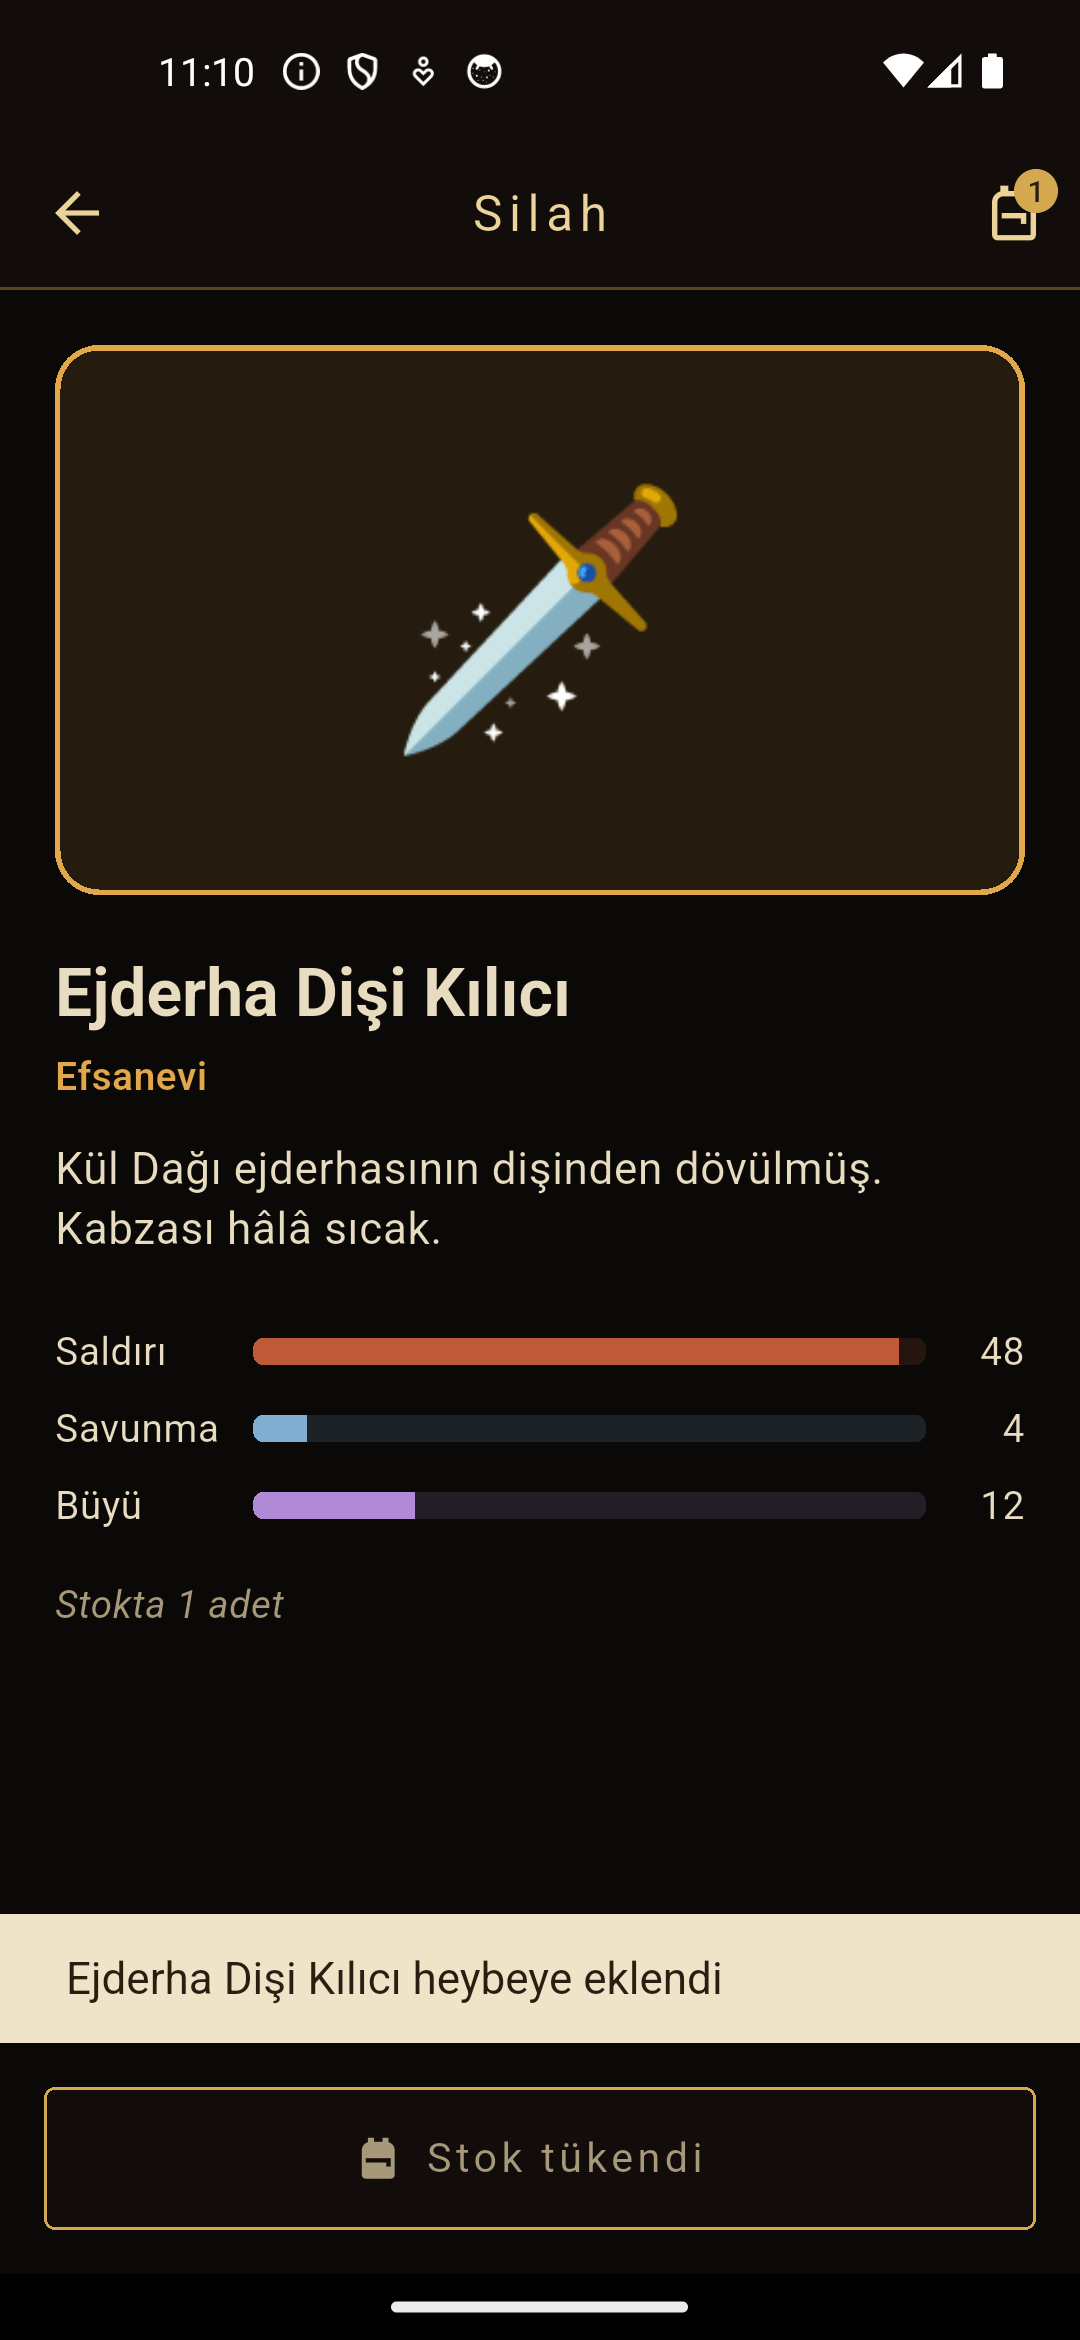
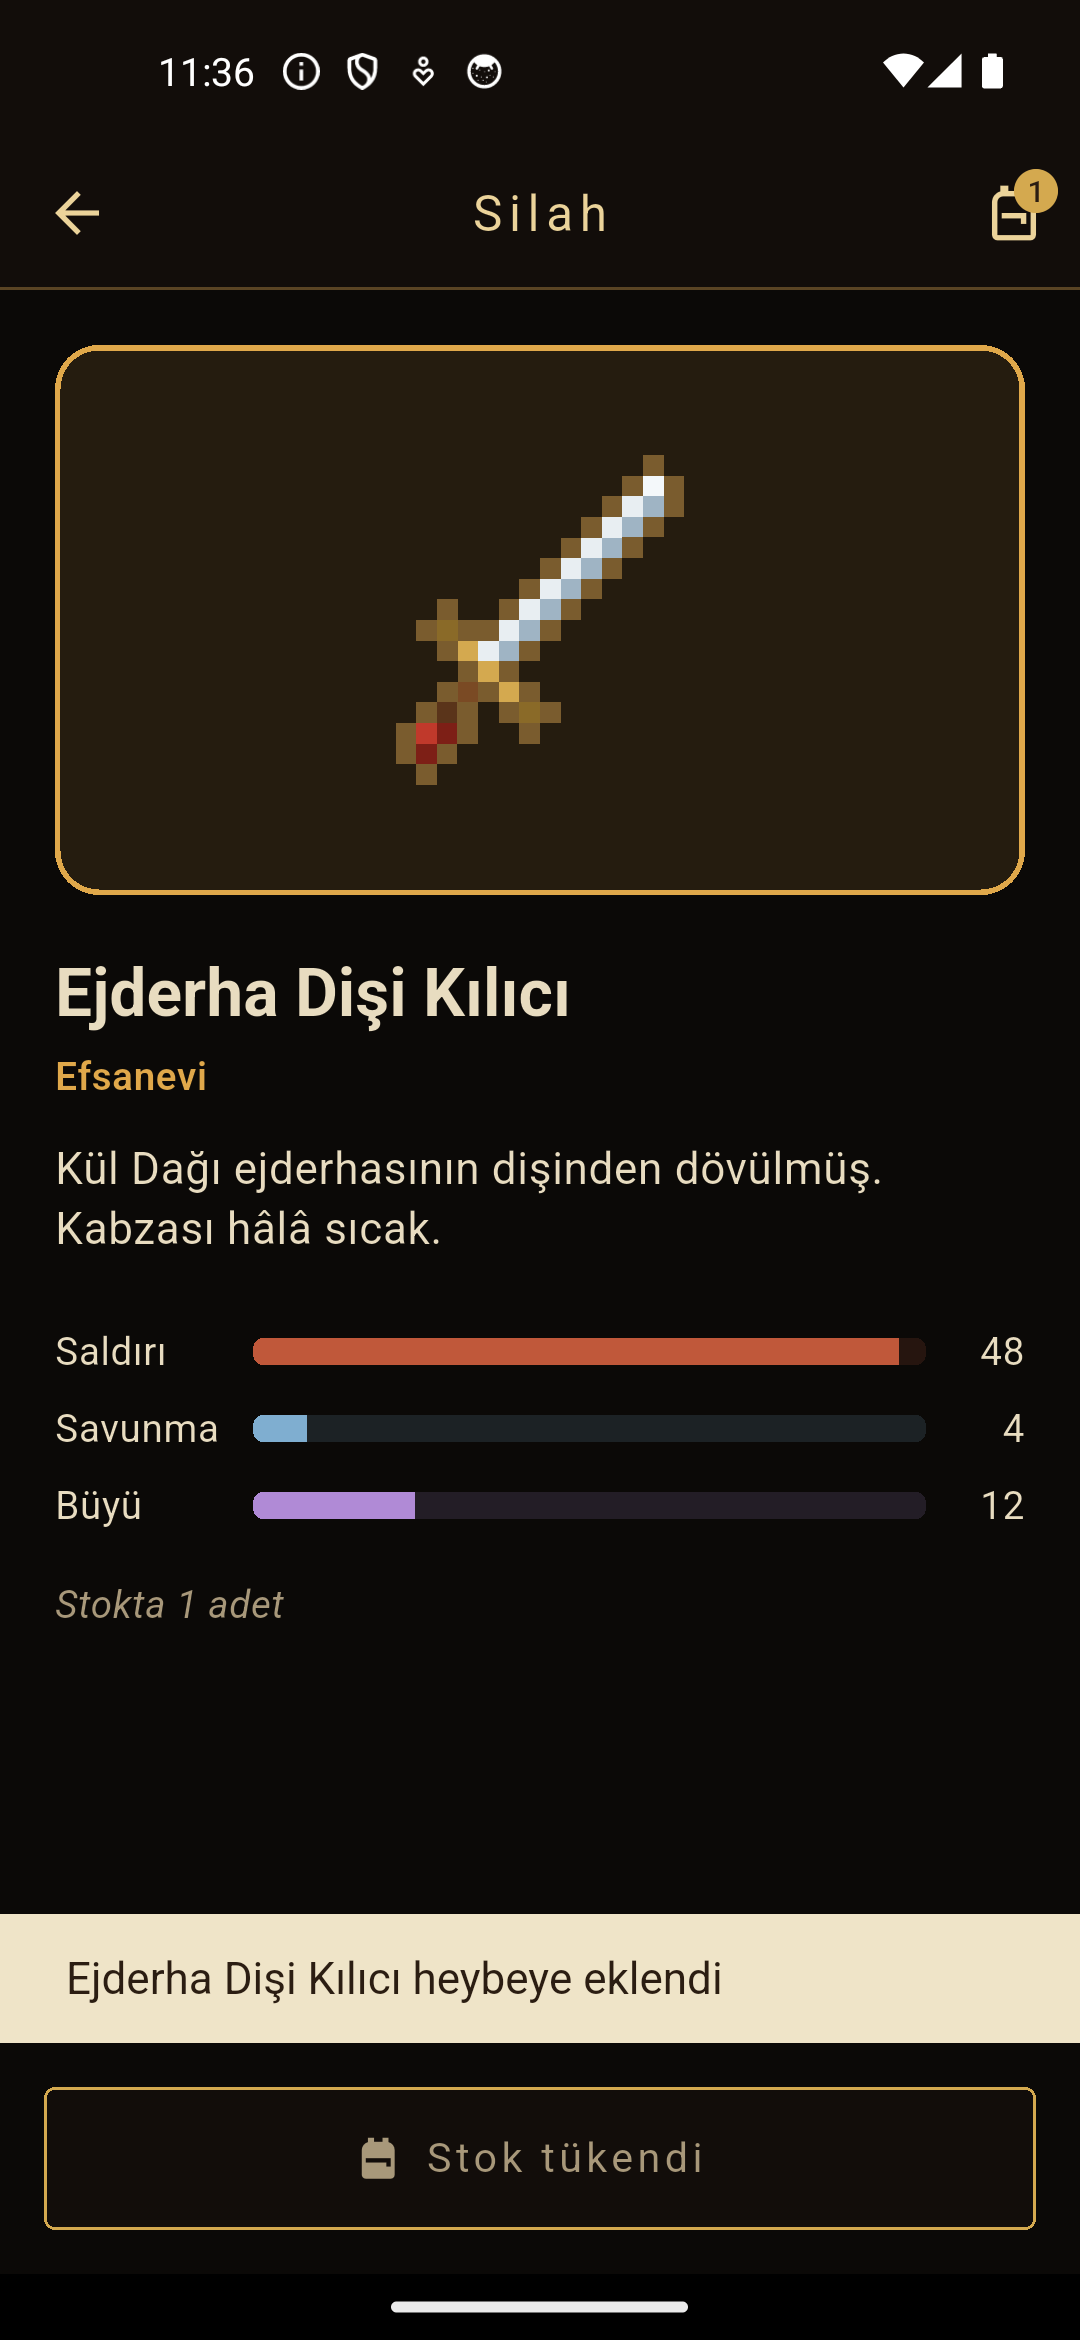
Piksel sanatı eşya görselleri eklendi
Ejderha Dişi Kılıcı, Kırmızı Şifa İksiri ve Ay Taşı Yüzüğü için
16x16 piksel görseller. Image.asset keskin ölçeklensin diye
FilterQuality.none kullanıldı; ekran görüntüleri güncellendi.

Changed region(s): [[0.3667, 0.1872, 0.6417, 0.3432]]

diff --git a/lib/widgets/item_image.dart b/lib/widgets/item_image.dart
@@ -15,6 +15,7 @@ class ItemImage extends StatelessWidget {
       item.image,
       height: size,
       fit: BoxFit.contain,
+      filterQuality: FilterQuality.none, // piksel sanatı keskin kalsın
       errorBuilder: (_, __, ___) => Text(item.emoji, style: TextStyle(fontSize: size * 0.75)),
     );
   }

diff --git a/README.md b/README.md
@@ -17,6 +17,7 @@ Maceracılar silah, zırh, iksir, parşömen ve takıları inceler, detaylarına
 - Nadirliğe göre renklendirilmiş kartlar ve stat çubukları
 - **Heybe (sepet)**: ekleme/çıkarma, stok sınırı, toplam altın — `ChangeNotifier` ile basit state yönetimi
 - Veriler `assets/data/items.json` dosyasından okunur (**fromJson / toJson** model sınıfı)
+- **Image.asset** ile piksel sanatı eşya görselleri (`assets/images/`); görseli olmayan eşyalarda emoji gösterilir
 - Ekstra paket kullanılmamıştır (yalnızca `material.dart`)
 
 ## Kullanılan Flutter Sürümü
